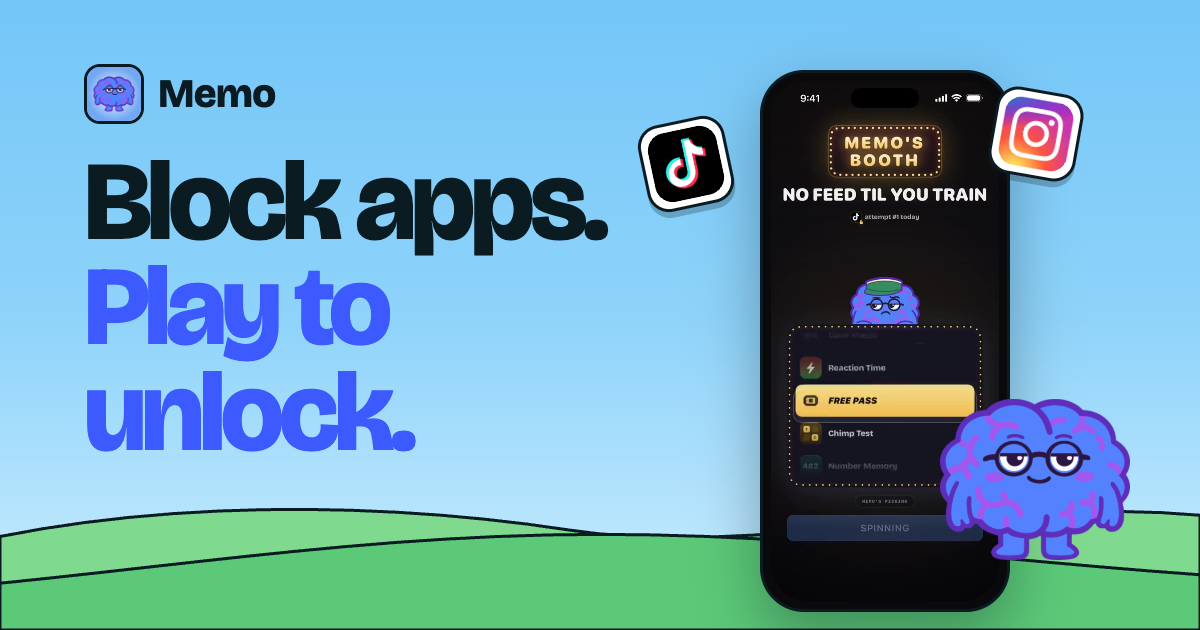
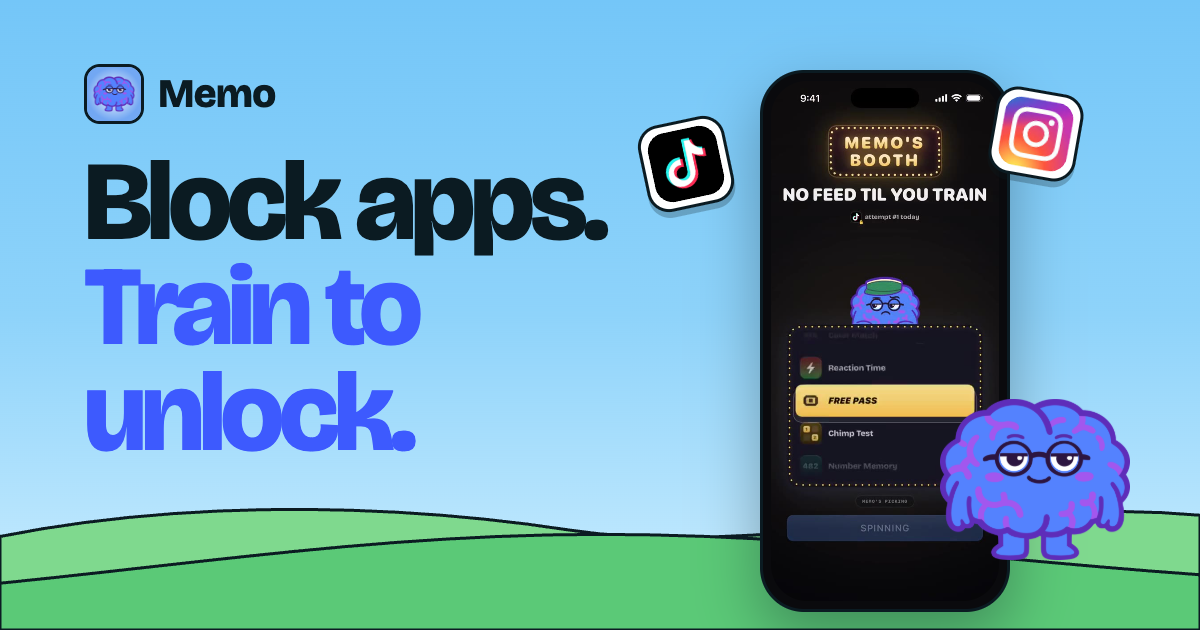
"Train to unlock" copy; add /tt TikTok bio page with sic-bio campaign
TikTok's in-app browser can't open App Store links directly, so the bio
points to /tt: the landing page with every App Store button tagged
ct=sic-bio (noindex, canonical to /). The homepage keeps ct=website.

Claude-Session: https://claude.ai/code/session_01CdXKo9wU9AGxuJG3bAyK4f

Changed region(s): [[0.0617, 0.4222, 0.37, 0.573]]

diff --git a/src/components/landing.tsx b/src/components/landing.tsx
@@ -1,13 +1,13 @@
 import Image from "next/image";
 import Link from "next/link";
 import { DownloadDock } from "./download-dock";
-import { APP_STORE_URL } from "@/lib/links";
+import { APP_STORE_URL, appStoreUrl } from "@/lib/links";
 
-export function AppStoreBadge({ id, className = "" }: { id?: string; className?: string }) {
+export function AppStoreBadge({ id, className = "", href = APP_STORE_URL }: { id?: string; className?: string; href?: string }) {
   return (
     <a
       id={id}
-      href={APP_STORE_URL}
+      href={href}
       aria-label="Download Memo on the App Store"
       className={`inline-block transition-transform active:scale-95 ${className}`}
     >
@@ -69,7 +69,7 @@ const STICKERS = [
   { src: "/img/icon-x.png", alt: "X", pos: "right-[4%] top-[36%] sm:right-[18%]", tilt: "-9deg", delay: "1.7s" },
 ];
 
-function Hero() {
+function Hero({ href }: { href: string }) {
   return (
     <section className="sky-day relative overflow-hidden">
       <Cloud className="left-[-4%] top-[16%] w-24 opacity-95 sm:w-36" />
@@ -81,7 +81,7 @@ function Hero() {
           <span className="text-xl font-extrabold tracking-tight text-ink">Memo</span>
         </Link>
         <a
-          href={APP_STORE_URL}
+          href={href}
           className="rounded-full border-2 border-ink bg-white px-4 py-1.5 text-sm font-extrabold text-ink shadow-[0_3px_0_#0B1B22]"
         >
           Get the app
@@ -93,12 +93,12 @@ function Hero() {
         <h1 className="display mt-5 text-[clamp(2.6rem,12.2vw,5.4rem)] text-ink">
           Block apps.
           <br />
-          <span className="text-accent">Play to unlock.</span>
+          <span className="text-accent">Train to unlock.</span>
         </h1>
         <p className="mt-4 max-w-md text-lg font-medium text-ink/75 sm:text-xl">
           Want TikTok back? Beat a quick brain game first.
         </p>
-        <AppStoreBadge id="hero-download" className="mt-6" />
+        <AppStoreBadge id="hero-download" className="mt-6" href={href} />
       </div>
 
       {/* The stage: phone on the hill, stickers floating, Memo standing by */}
@@ -189,7 +189,7 @@ function HowItWorks() {
   );
 }
 
-function Closing() {
+function Closing({ href }: { href: string }) {
   return (
     <section className="sky-sunset relative overflow-hidden">
       <div className="relative z-10 mx-auto flex max-w-2xl flex-col items-center px-5 pt-16 text-center">
@@ -198,7 +198,7 @@ function Closing() {
           <br />
           <span className="text-accent">More brain.</span>
         </h2>
-        <AppStoreBadge id="closing-download" className="mt-7" />
+        <AppStoreBadge id="closing-download" className="mt-7" href={href} />
       </div>
 
       <div className="relative mt-6 h-[300px] sm:h-[360px]">
@@ -225,13 +225,15 @@ function Closing() {
   );
 }
 
-export function Landing() {
+/** `campaign` tags every App Store button, so each traffic source gets its own row in App Store Connect. */
+export function Landing({ campaign = "website" }: { campaign?: string }) {
+  const href = appStoreUrl(campaign);
   return (
     <main>
-      <Hero />
+      <Hero href={href} />
       <HowItWorks />
-      <Closing />
-      <DownloadDock watch={["hero-download", "closing-download"]} />
+      <Closing href={href} />
+      <DownloadDock watch={["hero-download", "closing-download"]} href={href} />
     </main>
   );
 }

diff --git a/src/components/download-dock.tsx b/src/components/download-dock.tsx
@@ -5,7 +5,7 @@ import { APP_STORE_URL } from "@/lib/links";
 
 /** App Store-style bar pinned to the bottom on phones. Shows only while no
  *  other download badge is on screen, so there is always one tap to the store. */
-export function DownloadDock({ watch }: { watch: string[] }) {
+export function DownloadDock({ watch, href = APP_STORE_URL }: { watch: string[]; href?: string }) {
   const [show, setShow] = useState(false);
 
   useEffect(() => {
@@ -33,10 +33,10 @@ export function DownloadDock({ watch }: { watch: string[] }) {
       <img src="/app-icon.png" alt="" className="h-11 w-11 rounded-[12px] border-2 border-ink" />
       <div className="min-w-0 flex-1 leading-tight">
         <p className="truncate text-[15px] font-extrabold text-ink">Memo: App Blocker</p>
-        <p className="truncate text-xs font-semibold text-ink/60">Block apps. Play to unlock.</p>
+        <p className="truncate text-xs font-semibold text-ink/60">Block apps. Train to unlock.</p>
       </div>
       <a
-        href={APP_STORE_URL}
+        href={href}
         tabIndex={show ? 0 : -1}
         className="rounded-full border-2 border-ink bg-accent px-5 py-2 text-[15px] font-extrabold text-white shadow-[0_3px_0_#0B1B22] active:translate-y-[2px] active:shadow-[0_1px_0_#0B1B22]"
       >

diff --git a/src/app/layout.tsx b/src/app/layout.tsx
@@ -16,7 +16,7 @@ const description =
 
 export const metadata: Metadata = {
   metadataBase: new URL("https://getmemoriapp.com"),
-  title: { default: `${title} — Block apps. Play to unlock.`, template: "%s — Memo" },
+  title: { default: `${title} — Block apps. Train to unlock.`, template: "%s — Memo" },
   description,
   keywords:
     "app blocker, screen time, doomscrolling, block tiktok, block instagram, focus, study, brain games, dopamine detox",
@@ -26,15 +26,15 @@ export const metadata: Metadata = {
   },
   itunes: { appId: "6760178716" },
   openGraph: {
-    title: "Block apps. Play to unlock.",
+    title: "Block apps. Train to unlock.",
     description,
     type: "website",
     siteName: "Memo",
-    images: [{ url: "/og.png", width: 1200, height: 630, alt: "Memo: Block apps. Play to unlock." }],
+    images: [{ url: "/og.png", width: 1200, height: 630, alt: "Memo: Block apps. Train to unlock." }],
   },
   twitter: {
     card: "summary_large_image",
-    title: "Block apps. Play to unlock.",
+    title: "Block apps. Train to unlock.",
     description,
     images: ["/og.png"],
   },

diff --git a/src/lib/links.ts b/src/lib/links.ts
@@ -1,3 +1,6 @@
-// Campaign link from App Store Connect → Analytics → Campaigns, so installs
-// from the website show up as their own campaign ("website").
-export const APP_STORE_URL = "https://apps.apple.com/app/apple-store/id6760178716?pt=127835518&ct=website&mt=8";
+// Campaign links from App Store Connect → Analytics → Campaigns, so installs
+// show up per source: "website" for the site, "sic-bio" for the TikTok bio (/tt).
+export const appStoreUrl = (campaign: string) =>
+  `https://apps.apple.com/app/apple-store/id6760178716?pt=127835518&ct=${campaign}&mt=8`;
+
+export const APP_STORE_URL = appStoreUrl("website");

diff --git a/src/app/tt/page.tsx b/src/app/tt/page.tsx
@@ -1,0 +1,13 @@
+import type { Metadata } from "next";
+import { Landing } from "@/components/landing";
+
+// TikTok bio link. TikTok's in-app browser can't jump straight to the App Store,
+// so the bio points here and the buttons carry the "sic-bio" campaign.
+export const metadata: Metadata = {
+  alternates: { canonical: "/" },
+  robots: { index: false },
+};
+
+export default function TikTokBio() {
+  return <Landing campaign="sic-bio" />;
+}
